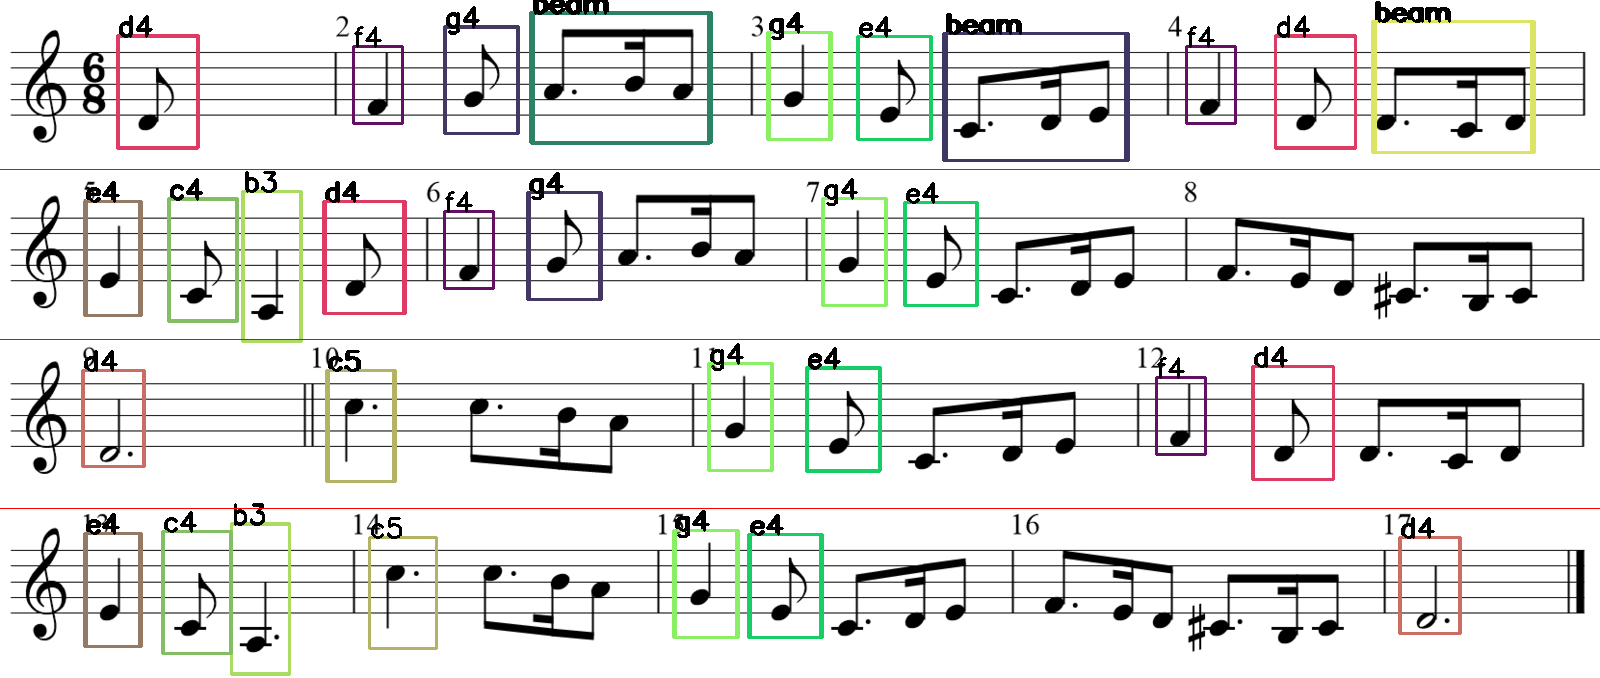
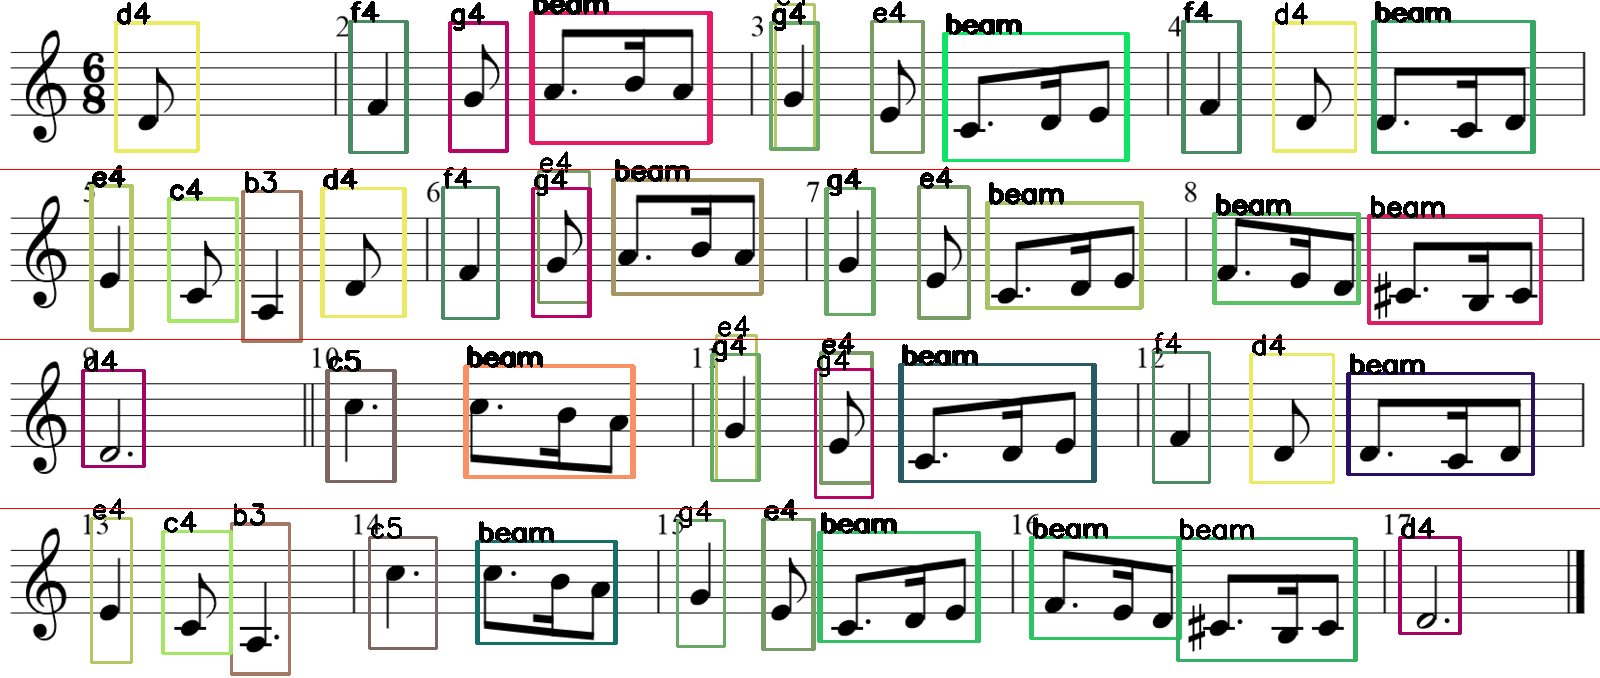
Added comments.

diff --git a/multi.py b/multi.py
@@ -9,25 +9,11 @@ import subprocess
 import os
 from midiutil.MidiFile3 import MIDIFile
 
+#list contains all the notes
 notesList = []
 
-
-# open image files
-def open_file(path):
-  cmd = {'linux':'eog', 'win32':'explorer', 'darwin':'open'}[sys.platform]
-  subprocess.run([cmd, path])
-
-# sorts coordinates from top left to bottom right.
-# uses the sections of each staves as reference to generate the 'location' of the note.
-def sort_keyval(x):
-  if (x[1] <= row/4):
-    return (col) + x[0]
-  elif (x[1] <= row/2):
-    return (col*2) + x[0]
-  elif (x[1] <= 3*row/4):
-    return (col*3) + x[0]
-  else:
-    return (col*4) + x[0]
+#list contains all the notes locations
+note_locations = {}
 
 # templates list
 note_files = [
@@ -57,6 +43,7 @@ note_files = [
     "template/c5_1half.png",
     "template/d5_1.png",]
 
+# Notes types and pitch dictionary 
 note_defs = {
      "g5" : (79),
      "f5" : (77),
@@ -82,6 +69,28 @@ note_defs = {
      "f2" : (53),
 }
 
+#----------------------------------------------------------------------------------------------------------#
+# Function:
+# open image files
+def open_file(path):
+  cmd = {'linux':'eog', 'win32':'explorer', 'darwin':'open'}[sys.platform]
+  subprocess.run([cmd, path])
+
+#----------------------------------------------------------------------------------------------------------#
+# Function: 
+# sorts coordinates from top left to bottom right.
+# uses the sections of each staves as reference to generate the 'location' of the note.
+def sort_keyval(x):
+  if (x[1] <= row/4):
+    return (col) + x[0]
+  elif (x[1] <= row/2):
+    return (col*2) + x[0]
+  elif (x[1] <= 3*row/4):
+    return (col*3) + x[0]
+  else:
+    return (col*4) + x[0]
+
+#----------------------------------------------------------------------------------------------------------#
 # Function: Read take and return the input file
 def SelectFile(defaultFile):
     script_dir = os.path.dirname(__file__)  # <-- absolute dir the script is in
@@ -100,14 +109,15 @@ def SelectFile(defaultFile):
             else:
                 return userInput
 
-# image being analyzed
+# read image from selected image
 image = cv2.imread(SelectFile("images/test.png"))
+
+# image being analyzed
 row, col = image.shape[:2]
 gray = cv2.cvtColor(image, cv2.COLOR_BGR2GRAY)
 
-note_locations = {}
+print("\nLoading.......\n")
 
-print("\nLoading.......")
 
 for t in note_files:
   output = []
@@ -194,14 +204,6 @@ for t in note_files:
     (endX, endY) = (int((x + tW) * r), int((y + tH) * r))
 
     # draw a bounding box around the detected result and display the image
-    # if (startY <= row/4):
-    #   image = cv2.rectangle(image, (startX, startY), (endX, endY), (0, 255, 0), 2)
-    # elif (startY <= row/2):
-    #   image = cv2.rectangle(image, (startX, startY), (endX, endY), (0, 255, 255), 2)
-    # elif (startY <= 3*row/4):
-    #   image = cv2.rectangle(image, (startX, startY), (endX, endY), (255, 0, 255), 2)
-    # else:
-    #   image = cv2.rectangle(image, (startX, startY), (endX, endY), (255, 0, 0), 2)
     image = cv2.rectangle(image, (startX, startY), (endX, endY), (100, int(color[1]), int(color[2])), 2)
 
     cv2.putText(image, beam_check[0], (startX, startY), cv2.FONT_HERSHEY_SIMPLEX, 0.9, (0,0,0), 2)
@@ -232,6 +234,7 @@ for i in range(0, len(keys), 1):
 
   #print(note_locations[keys[i]])
   outputFile.write(str(note_locations[keys[i]]) + "\n")
+  #make a list of all notes
   notesList.append(note_locations[keys[i]])
 
 
@@ -242,34 +245,52 @@ cv2.line(image, (0, int(3*row/4)) , (col, int(3*row/4)), (0, 0, 255))
 # DEBUGGING: Show this certain box as yellow
 # image = cv2.rectangle(image, (keys[3][0], keys[3][1]), (keys[3][2], keys[3][3]), (0, 255, 255), 2)
 
+# create image file 
 cv2.imwrite("multi-result.png", image)
 open_file('multi-result.png')
 outputFile.close() 
 
+print("\nMaking midi music file.......\n")
+#----------------------------------------------------------------------------------------------------------#
+# Output the notes as midi file.
+
+# Create the MIDIFile Object with 1 track
 midi = MIDIFile(1)
-     
-track = 0   
+ 
+# the first track is 0, here we only need one
+track = 0  
 time = 0
 channel = 0
+
+# Use constant volume for all notes
 volume = 100
     
+# Add track name and tempo.
 midi.addTrackName(track, time, "Track")
 midi.addTempo(track, time, 140)
 
+# loop over notes and add the note
 for note in notesList:
+
+    #check if the note is beam
     if len(note) > 1:
         print("beam -_- ")
 
     else:
+        #Get the duration time or beat and get the picth
         duration = float(note[0][2])
         pitch = int(note[0][1])
+
+        #add the note to midi object.
         midi.addNote(track,channel,pitch,time,duration,volume)
+
+        #incremnt the time by duration time to add new note and play the notes in order  
         time += duration
 
 #insert sound with volume 0 after the music
 midi.addNote(track,channel,pitch,time,4,0)
 
-# And write it to disk.
+# Create midi music file
 binfile = open("music.mid", 'wb')
 midi.writeFile(binfile)
 binfile.close()
